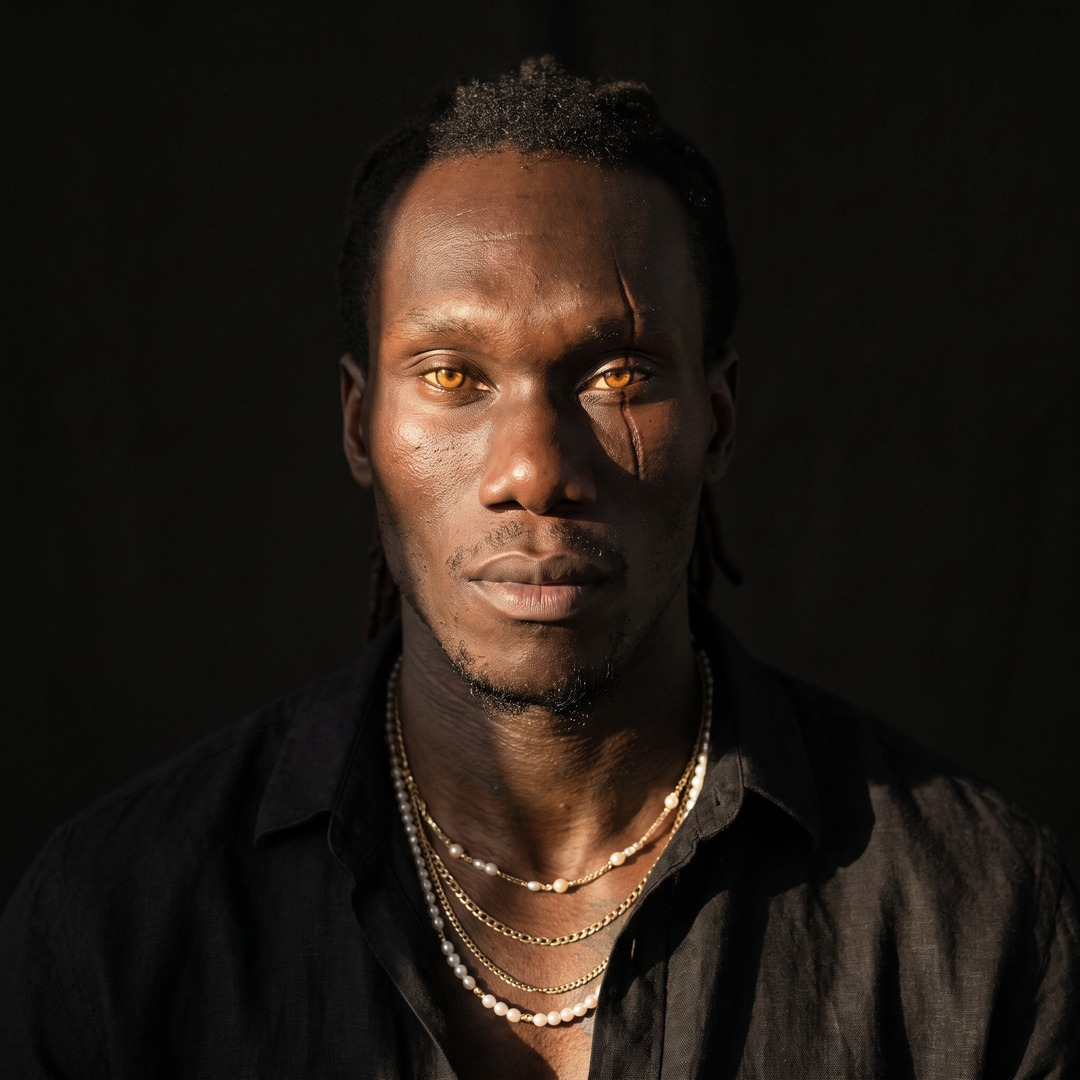
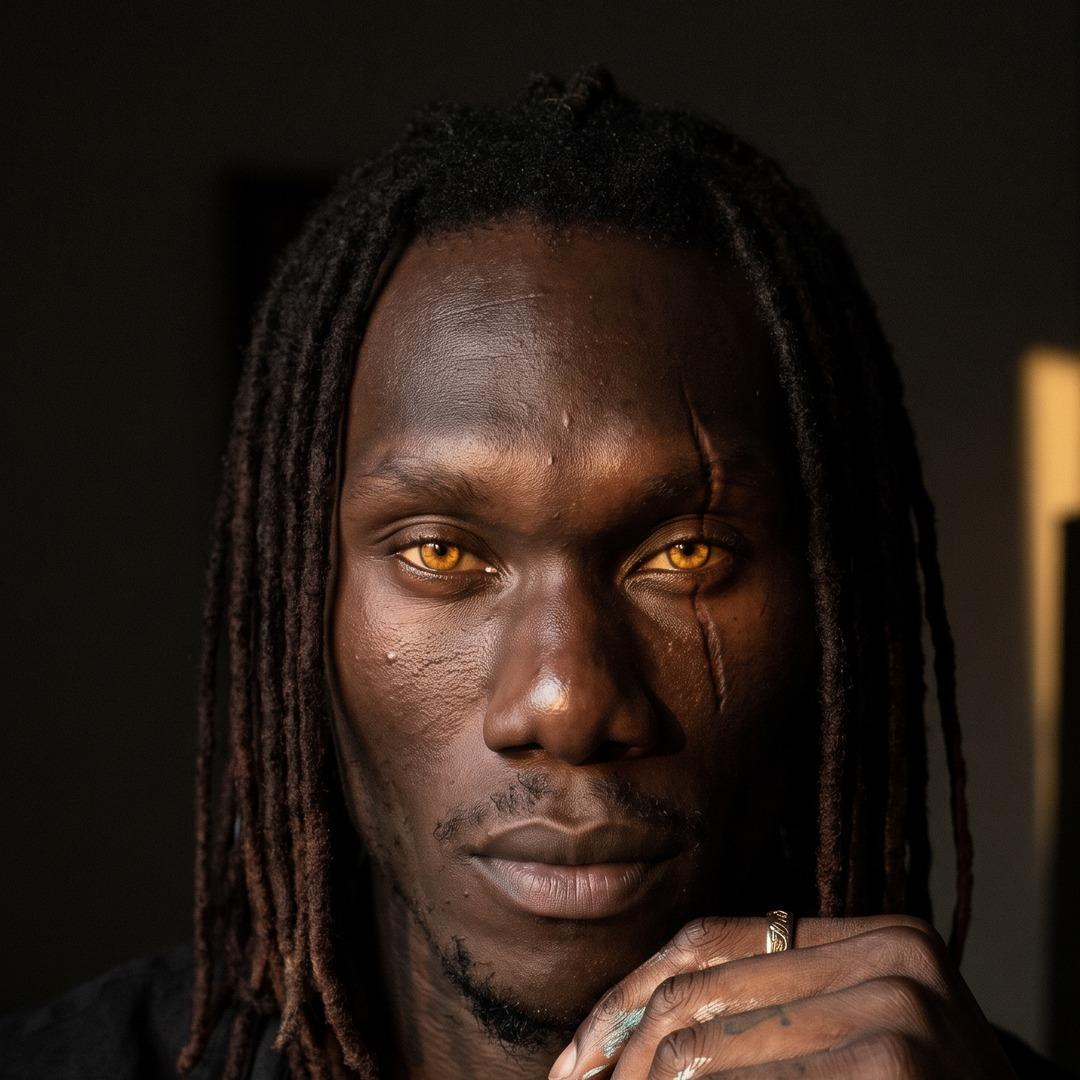
Profilbild: offene Locs, dunkler Aura-Stil
Claude-Session: https://claude.ai/code/session_01HsYp4LgW6x4xFgr3YCg7h7

diff --git a/STRATEGIE.md b/STRATEGIE.md
@@ -10,7 +10,7 @@ beleuchtet, der Rest in tiefem Schatten, Bernstein-Augen leuchten, Narbe im Lich
   Dunkle Aura-Nahaufnahmen und Sprechvideos OHNE Hut (oder höchstens schwarzer Hut weit nach hinten), damit Narbe und Augen im Licht bleiben.
 - **Haar-Regel (Nutzer 14.11.2026: „mach wie du denkst“):** Normalfall offene lange Locs (wie in den Referenzen). Draußen mit
   Strohhut, Locs offen darunter. Zurückgebunden nur ab und zu (Profilbild, extremes Close-up mit voll sichtbarer Narbe).
-- Profilbild seit 14.11.2026: dunkles Aura-Porträt ohne Hut (`assets/profil.jpg`).
+- Profilbild seit 14.11.2026: dunkles Aura-Porträt, offene Locs, ohne Hut, Hand am Kinn (`assets/profil.jpg`).
 - Auch die meisten Reels/Fotos (mind. 2 von 3) in dieser Lichtstimmung; helle Szenen (Strand, Gasse, Reaktion im Alltag) nur als Abwechslung.
 
 ## Wer er ist
